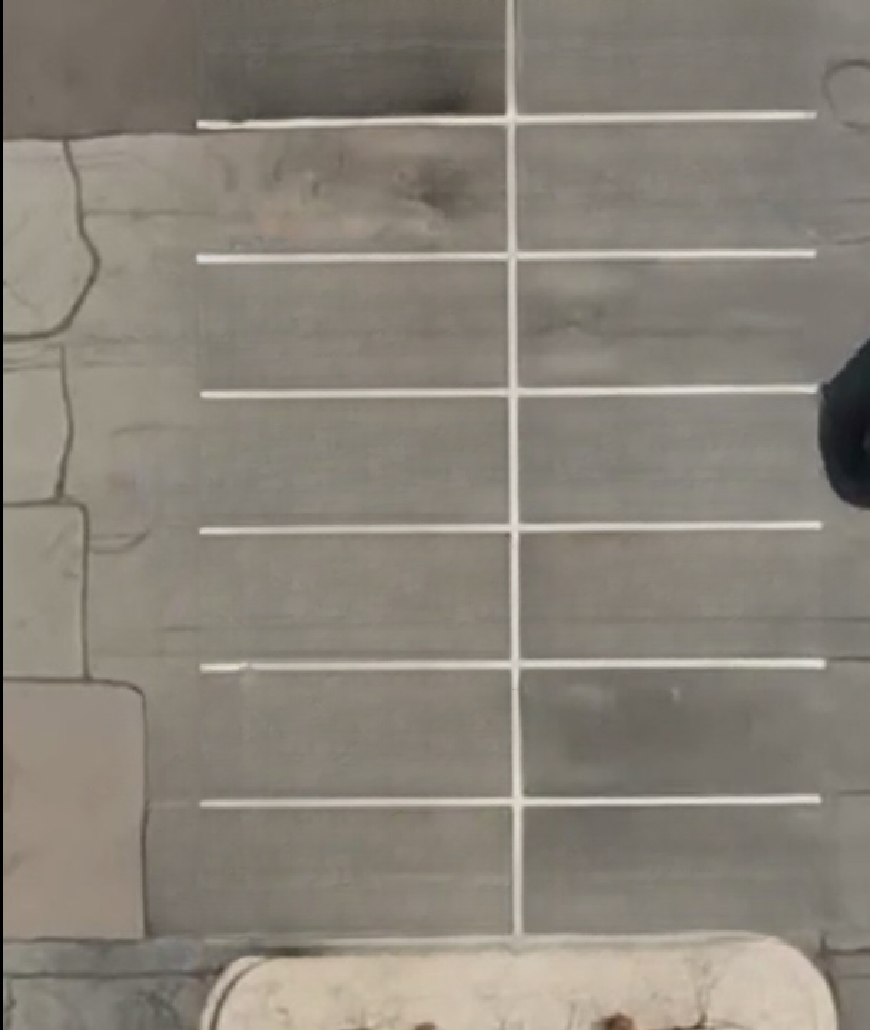
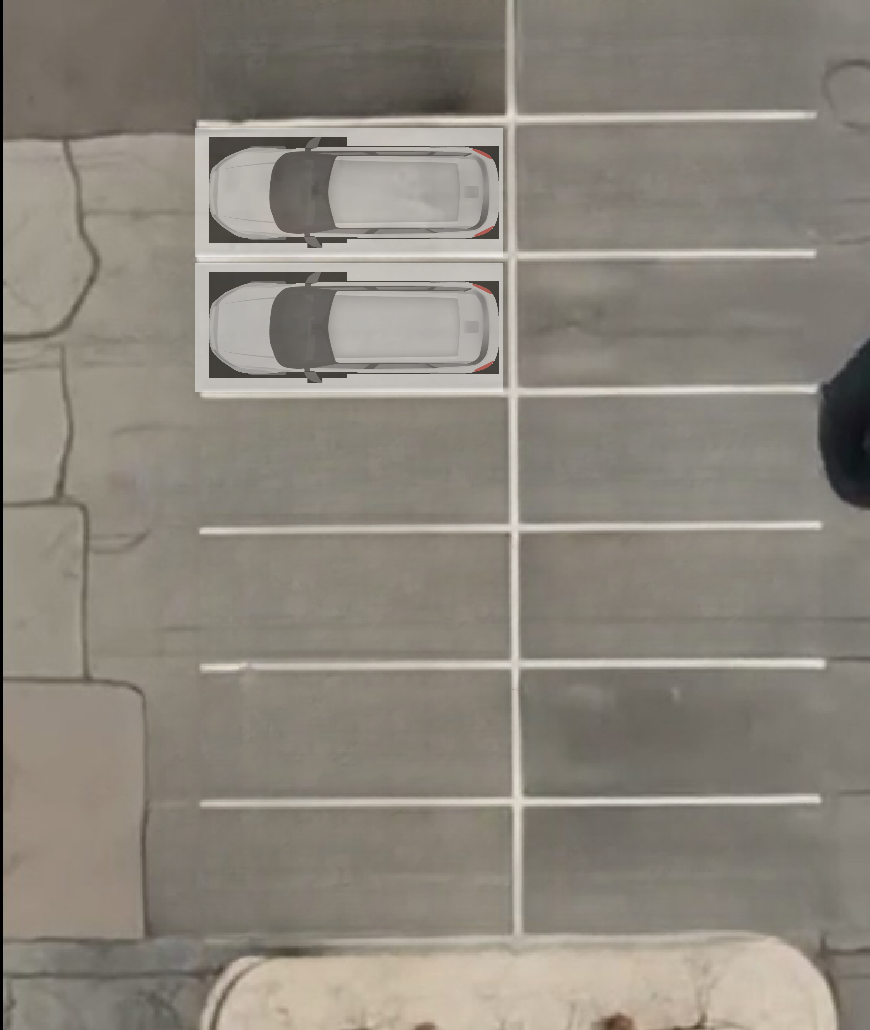
Fixed for all devices

Changed region(s): [[0.2172, 0.1243, 0.5897, 0.4039]]

diff --git a/src/frontend/src/Pages/Dashboard.jsx b/src/frontend/src/Pages/Dashboard.jsx
@@ -36,9 +36,11 @@ export default function Dashboard() {
   }, [dashboard]);
 
   const emptySpots = dashboard?.lastEntry?.emptySpots
-    ? dashboard?.lastEntry?.emptySpots.filter(
-        (element) => element !== dashboard?.lastEntry?.takenSpot
-      )
+    ? dashboard?.lastEntry?.isEntering
+      ? dashboard?.lastEntry?.emptySpots.filter(
+          (element) => element !== dashboard?.lastEntry?.takenSpot
+        )
+      : [dashboard?.lastEntry?.takenSpot, ...dashboard?.lastEntry?.emptySpots]
     : [1, 2, 3, 4, 5, 6, 7, 8, 9, 10, 11, 12, 13, 14];
 
   return (
@@ -66,7 +68,9 @@ export default function Dashboard() {
             <CardContent>
               <div className="text-xl font-bold">
                 {dashboard.lastEntry
-                  ? dashboard.lastEntry?.emptySpots.length - 1
+                  ? dashboard?.lastEntry?.isEntering
+                    ? dashboard.lastEntry?.emptySpots.length - 1
+                    : dashboard.lastEntry?.emptySpots.length + 1
                   : 14}
               </div>
             </CardContent>
@@ -80,10 +84,12 @@ export default function Dashboard() {
             </CardHeader>
             <CardContent>
               <div className="text-xl font-bold">
-                {15 -
+                {14 -
                   (dashboard.lastEntry
-                    ? dashboard.lastEntry?.emptySpots.length
-                    : 15)}
+                    ? dashboard?.lastEntry?.isEntering
+                      ? dashboard.lastEntry?.emptySpots.length - 1
+                      : dashboard.lastEntry?.emptySpots.length + 1
+                    : 14)}
               </div>
             </CardContent>
           </Card>
@@ -96,7 +102,7 @@ export default function Dashboard() {
           {/* AreaChart */}
           <div className="col-span-2 border rounded-md shadow-lg p-5 pr-0">
             <p className="font-bold text-left text-xl mb-4">
-              Rate of Parking Spots
+              Parking Lot Engagement
             </p>
             <div className="flex justify-center">
               <AreaChart data={dashboard.entriesByDay} />
@@ -105,7 +111,7 @@ export default function Dashboard() {
 
           <div className="border rounded-md shadow-lg p-5 pr-0 row-span-2">
             <p className="font-bold text-left text-xl mb-4">
-              Rate of Parking Spots
+              Realtime Parking Lot Status
             </p>
             <div className="w-full">
               <ParkingLot emptySpots={emptySpots} />
@@ -114,19 +120,19 @@ export default function Dashboard() {
           </div>
 
           {/* RadarChart */}
-          <div className="col-span-1 border rounded-md shadow-lg p-5 pr-0 ">
+          {/* <div className="col-span-1 border rounded-md shadow-lg p-5 pr-0 ">
             <p className="font-bold text-left text-xl mb-4">
               Average Parking Duration
             </p>
-            <div className="flex justify-center">
+            <div className="flex mr-10 mt-12 justify-center">
               <LineCharts data={dashboard.entriesByHour} />
             </div>
-          </div>
+          </div> */}
 
           {/* PieChart */}
-          <div className=" col-span-1 border rounded-md shadow-lg p-5 pr-0">
+          <div className=" col-span-2 border rounded-md shadow-lg p-5 pr-0">
             <p className="font-bold text-left text-xl mb-4">
-              Rate of Parking Spots
+              Real Time Slot Avaiilability
             </p>
             <div className="flex justify-center">
               <PieChart data={dashboard.lastEntry} />

diff --git a/src/frontend/src/components/section/Navbar.jsx b/src/frontend/src/components/section/Navbar.jsx
@@ -1,4 +1,4 @@
-import React from "react";
+import React, { useState } from "react";
 
 import { Link } from "react-router-dom";
 import {
@@ -18,19 +18,24 @@ import {
   CircleParkingOff,
 } from "lucide-react";
 import axios from "axios";
+import LoadingSpinner from "../ui/loading";
 
 export default function Navbar() {
   const { toast } = useToast();
+  const [isLoading, setIsLoading] = useState(false);
 
   const vehicleEntry = async () => {
+    setIsLoading(true);
     try {
-      const response = await axios.get(
-        "https://slot-savant-flask.onrender.com/enter_car"
-      );
+      const response = await axios.get("http://localhost:5000/enter_car");
       console.log(response);
       toast({
+        variant: `${response.data.message ? "" : "destructive"}`,
         title: "Vehicle Entry",
-        description: "Vehicle has entered the parking lot.",
+        description:
+          response.data.message ||
+          response.data.error ||
+          "Vehicle has entered the parking lot.",
         action: <ToastAction altText="Close">Close</ToastAction>,
       });
     } catch (error) {
@@ -41,18 +46,23 @@ export default function Navbar() {
         description: "Failed to register vehicle entry.",
         action: <ToastAction altText="Try again">Try again</ToastAction>,
       });
+    } finally {
+      setIsLoading(false);
     }
   };
 
   const vehicleExit = async () => {
+    setIsLoading(true);
     try {
-      const response = await axios.get(
-        "https://slot-savant-flask.onrender.com/exit_car"
-      );
+      const response = await axios.get("http://localhost:5000/exit_car");
       console.log(response);
       toast({
+        variant: `${response.data.message ? "" : "destructive"}`,
         title: "Vehicle Exit",
-        description: "Vehicle has exited the parking lot.",
+        description:
+          response.data.message ||
+          response.data.error ||
+          "Vehicle has exited the parking lot.",
         action: <ToastAction altText="Close">Close</ToastAction>,
       });
     } catch (error) {
@@ -63,11 +73,14 @@ export default function Navbar() {
         description: "Failed to register vehicle exit.",
         action: <ToastAction altText="Try again">Try again</ToastAction>,
       });
+    } finally {
+      setIsLoading(false);
     }
   };
 
   return (
     <div>
+      {isLoading && <LoadingSpinner />}
       <aside className="fixed inset-y-0 left-0 z-10 hidden w-14 flex-col border-r bg-background sm:flex">
         <nav className="flex flex-col items-center gap-4 px-2 sm:py-5">
           <Link

diff --git a/src/frontend/src/components/section/PieChart.jsx b/src/frontend/src/components/section/PieChart.jsx
@@ -92,17 +92,33 @@ export default class ParkingChart extends PureComponent {
 
   render() {
     const { data } = this.props;
-    // const formattedData = [
-    //   { name: "Filled", value: 15 - (data ? data?.emptySpots.length : 15) },
-    //   { name: "Empty", value: data ? data?.emptySpots.length - 1 : 14 },
-    // ];
     const formattedData = [
-      { name: "Filled", value: 10 },
-      { name: "Empty", value: 10 },
+      {
+        name: "Filled",
+        value:
+          14 -
+          (data
+            ? data?.isEntering
+              ? data?.emptySpots.length - 1
+              : data?.emptySpots.length + 1
+            : 14),
+      },
+      {
+        name: "Empty",
+        value: data
+          ? data?.isEntering
+            ? data?.emptySpots.length - 1
+            : data?.emptySpots.length + 1
+          : 14,
+      },
     ];
+    // const formattedData = [
+    //   { name: "Filled", value: 10 },
+    //   { name: "Empty", value: 10 },
+    // ];
 
     return (
-      <PieChart width={300} height={300}>
+      <PieChart width={500} height={300}>
         <Pie
           activeIndex={this.state.activeIndex}
           activeShape={renderActiveShape}
@@ -111,7 +127,7 @@ export default class ParkingChart extends PureComponent {
           cy="50%"
           innerRadius={60}
           outerRadius={80}
-          fill="#38BDF8"
+          fill="#22C55E"
           stroke="hsl(var(--secondary))"
           strokeWidth={2}
           dataKey="value"

diff --git a/src/frontend/src/components/section/LineCharts.jsx b/src/frontend/src/components/section/LineCharts.jsx
@@ -92,9 +92,9 @@ const LineCharts = () => {
 
   const chartData = processData(data);
   return (
-    <LineChart width={600} height={300} data={chartData}>
-      <Line type="monotone" dataKey="count" stroke="#38BDF8" strokeWidth={3} />
-      <XAxis dataKey="day" stroke="#F8FAFC " />
+    <LineChart width={500} height={300} data={chartData}>
+      <Line type="monotone" dataKey="count" stroke="#22C55E" strokeWidth={3} />
+      <XAxis dataKey="day" stroke="#F8FAFC " fontSize={14} />
       <YAxis stroke="#F8FAFC " />
       {/* <CartesianGrid stroke="hsl(var(--primary))" strokeDasharray="5 5" /> */}
       <Tooltip />

diff --git a/src/frontend/src/components/section/AreaChart.jsx b/src/frontend/src/components/section/AreaChart.jsx
@@ -87,7 +87,7 @@ export default class Example extends PureComponent {
       <AreaChart
         width={800}
         height={300}
-        data={formattedData ? formattedData : 0}
+        data={data ? data : 0}
         margin={{
           top: 10,
           right: 30,
@@ -103,6 +103,7 @@ export default class Example extends PureComponent {
           dataKey="parkedSlots"
           stroke="#22C55E "
           fill="#22C55E"
+          opacity={0.6}
         />
       </AreaChart>
     );

diff --git a/src/backend/utils/dashboardData.js b/src/backend/utils/dashboardData.js
@@ -82,8 +82,7 @@ const getCarCountsByHour = async (hours) => {
 
 const generateData = async (req, res) => {
   try {
-    const lastEntry = await Parking.findOne().sort({ _id: -1 });
-    console.log(lastEntry);
+    const lastEntry = await Log.findOne().sort({ _id: -1 });
     const lastWeekDates = getLastWeekDates();
     const entriesByDay = await getEntriesByDay(lastWeekDates);
     const todaysHours = getTodaysHours();

diff --git a/src/frontend/src/components/ParkingLot.jsx b/src/frontend/src/components/ParkingLot.jsx
@@ -1,22 +1,6 @@
 import React from "react";
 
 const ParkingLot = ({ emptySpots }) => {
-  const positions = {
-    1: "",
-    2: "",
-    3: "",
-    4: "",
-    5: "",
-    6: "",
-    7: "",
-    9: "",
-    10: "",
-    11: "",
-    12: "",
-    13: "",
-    14: "",
-  };
-
   const some = [1, 2, 3, 4, 5, 6, 7, 8, 9, 10, 11, 12, 13, 14];
   const result = some.filter((x) => !emptySpots?.includes(x));
 

diff --git a/src/frontend/src/components/ui/loading.jsx b/src/frontend/src/components/ui/loading.jsx
@@ -1,0 +1,7 @@
+export default function LoadingSpinner() {
+  return (
+    <div className="fixed inset-0 flex items-center justify-center bg-black bg-opacity-80 z-50">
+      <div className="animate-spin rounded-full border-4 border-primary border-t-transparent h-10 w-10" />
+    </div>
+  );
+}

diff --git a/src/flask/app.py b/src/flask/app.py
@@ -7,6 +7,10 @@ import numpy as np
 import sys
 from flask_pymongo import PyMongo
 from utils import detect_most_common_text, process_parking_image, entry, exit_car
+import pytz
+
+
+indian_tz = pytz.timezone('Asia/Kolkata')
 
 
 app = Flask(__name__)
@@ -39,10 +43,15 @@ def enter_car():
             takenSpot = empty_spots[0]
             entry(takenSpot)
             if takenSpot != -1:
-                db.parking.insert_one({'car': car_id, "time": datetime.now(), "emptySpots": empty_spots, "parkedSlots": parked_slots, "takenSpot": takenSpot})
-                db.logs.insert_one({'car': car_id, "time": datetime.now(), "emptySpots": empty_spots, "parkedSlots": parked_slots, "takenSpot": takenSpot, "isEntering": True})
+                db.parking.insert_one({'car': car_id, "time": datetime.now(indian_tz), "emptySpots": empty_spots, "parkedSlots": parked_slots, "takenSpot": takenSpot})
+                db.logs.insert_one({'car': car_id, "time": datetime.now(indian_tz), "emptySpots": empty_spots, "parkedSlots": parked_slots, "takenSpot": takenSpot, "isEntering": True})
                 db.cars.update_one({"carNumberPlate": most_common_text}, {"$set": {"isParked": True}})
-                return jsonify({'text': most_common_text.upper(), 'details': details, 'parked': result[0], 'total': result[1], "time": datetime.now(), "parkedSlots": parked_slots, "takenSpot": takenSpot})
+                print(jsonify({
+                    'message': "Car entered"
+                }))
+                return jsonify({
+                    'message': "Car entered"
+                })
             else:
                 return jsonify({'error': 'No spots left'})
     else:
@@ -79,7 +88,7 @@ def exit_car_endpoint():
 
                 db.logs.insert_one({
                     'car': car_id, 
-                    "time": datetime.now(), 
+                    "time": datetime.now(indian_tz), 
                     "emptySpots": empty_spots, 
                     "parkedSlots": parked_slots, 
                     "takenSpot": takenSpot, 
@@ -90,13 +99,7 @@ def exit_car_endpoint():
                     {"$set": {"isParked": False}}
                 )
                 return jsonify({
-                    'text': most_common_text.upper(), 
-                    'details': details, 
-                    'parked': result[0], 
-                    'total': result[1], 
-                    "time": datetime.now(), 
-                    "parkedSlots": parked_slots, 
-                    "takenSpot": takenSpot
+                    'message': "Car exited"
                 })
             else:
                 return jsonify({'error': 'Car is not parked in the lot'})
